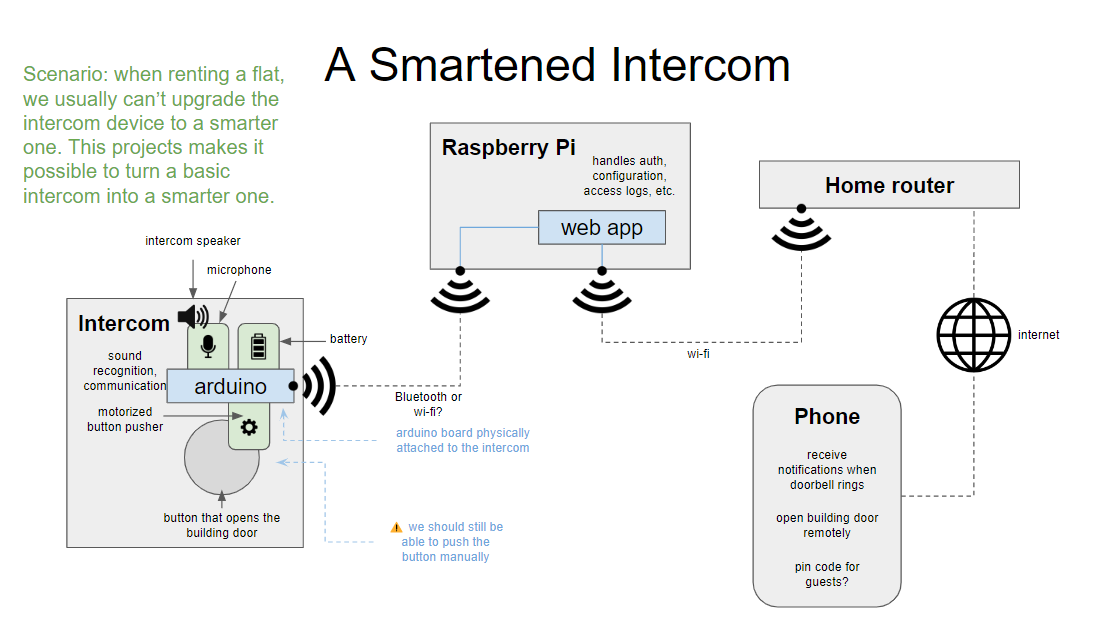
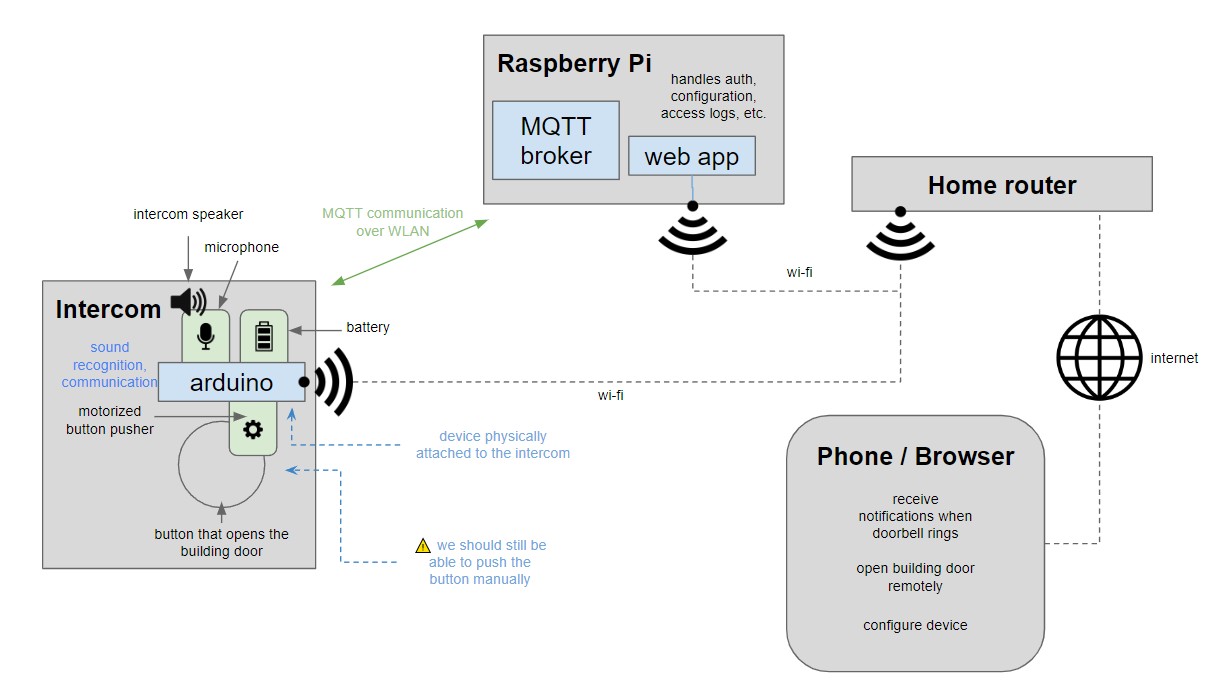
group02 - improved pi setup and overall structure

diff --git a/projects/02_smart_intercom/README.md b/projects/02_smart_intercom/README.md
@@ -1,14 +1,59 @@
 # Smart Intercom
 
+`Turn an existing intercom into a smarter one.`
+
+When renting a flat or apartment, the pre-installed intercom system is often very basic and does not support any interesting features. Our `smart intercom` is a device that can be placed on top of an existing intercom system and add smart features to it.
+
+The smart intercom device is able to detected the doorbell and will send a push notification to a registered browser application, that can also be used on a mobile phone. The user is then able to trigger the opening of the door in this application.
+
 ![](images/schema.png)
 
-## Installation on the pi
+## Intercom System - ESP32 Feather
 
-To install the smart intercom on the raspberry, first prepare the pi by following the following chapters of the [Raspberry Pi Tutorial](../../topics/02_raspPI/README.md):
+The smart intercom device itself is an `ESP32 Feather` equipped with a sound sensor, a servo motor and a battery. It is connected to a local wifi network to communicate with the server.
+
+The doorbell detection algorithm runs on this device.
+If the ringing of the doorbell is detected, a message will be sent over MQTT to the server.
+The parameters of the algorithm can be configured to match different doorbells.
+The device listens for configuration changes on specific MQTT topics.
+
+The smart intercom also listens for a command to open the door. In this case, the servo motor would be activated to press the button on the underlying intercom.
+This does not work in our prototype, since we were not able to integrate a working servo motor with the system.
+
+![](images/device.jpg)
+
+    TODO intercom setup
+
+## Server - Raspberry Pi
+
+A `Raspberry Pi`, located in the same local network as the intercom, acts as the server. It hosts the web application and its database and also the MQTT broker to communicate with the intercom.
+
+The different parts of the server are containerized. They are built and run using `docker-compose`. The following containers exist:
+
+- database
+  - A postgres database running on the local port `5432`. It is only beeing used by the api.
+- api
+  - A nodeJS application providing a REST Api for the web application using [koa.js](https://koajs.com/).
+  - Communicates with the intercom over MQTT.
+  - Sends push notifications to the web application using [Web Push](https://web.dev/notifications/).
+- nginx
+  - Serves the pre-build angular web application on ports `80` and `443`.
+  - Redirects requests to https://protofablab.ch/api to the api application.
+- certbot
+  - Is only used initially to generate the SSL certificate for the web application.
+- mqtt
+  - The MQTT broker running on port `1883`.
+  - Used by intercom and api application.
+
+### Installation
+
+To install the smart intercom on the raspberry, first prepare the pi by following these chapters of the [Raspberry Pi Tutorial](../../topics/02_raspPI/README.md):
 
 - Write Image to SD-Card
 - Connect to your raspberry pi
 - Port forwarding
 - DNS setup
 
-After that, follow the steps in [pi-setup.md](./pi-setup.md).
+After that, follow [these steps](./PI_SETUP.md).
+
+## Using the smart intercom

diff --git a/projects/02_smart_intercom/PI_SETUP.md b/projects/02_smart_intercom/PI_SETUP.md
@@ -1,0 +1,103 @@
+# Raspberry Pi Setup
+
+This tutorial describes how to deploy the project to the raspberry pi and make the web application available on `https://protofablab.ch`.
+
+The following steps have to be exectuted in order. Some of them might take a while.
+
+## Build and deploy on a different domain
+
+To deploy the application on a different domain, some configuration files have to be changed and the UI application has to be rebuilt. Since the build of the UI application is very slow on the Pi, this should be done on a PC.
+
+Replace any occurrence of `protofablab.ch` in the following files:
+
+- docker-compose.yml
+- nginx.conf
+- smart-intercom-ui/src/environment/environment.prod.ts
+
+Then build the ui application:
+
+```sh
+cd smart-intercom-ui
+
+# build the ui application to the output folder smart-intercom-ui/ui-dist
+npm run build
+```
+
+Push these changes to a dedicated git branch.
+
+## Install Docker
+
+To install docker, we use the [Linux Media Delivery System (LMDS)](https://github.com/GreenFrogSB/LMDS).
+
+```sh
+sudo apt-get update && sudo apt-get upgrade
+
+# install git
+sudo apt install git
+
+# install docker and docker-compose using LMDS
+git clone https://github.com/GreenFrogSB/LMDS.git ~/LMDS
+
+cd ~/LMDS
+
+./deploy.sh
+
+# select first option
+"Install Docker & Docker-compose"
+
+# reboot the pi after
+
+# reconnect to the pi
+
+sudo systemctl enable docker
+```
+
+## Check out project code
+
+By using [sparse checkout](https://git-scm.com/docs/git-sparse-checkout), we only get the files from the relevant project folder.
+
+```sh
+mkdir protofablab
+
+cd protofablab
+
+git init
+
+git remote add -f origin https://github.com/nembrinj/protofablab
+
+# only check out relevant folder
+git config core.sparseCheckout true
+
+echo "projects/02_smart_intercom" >> .git/info/sparse-checkout
+
+# check out your dedicated git branch instead of main, if you want to deploy to a different domain.
+git pull origin main
+```
+
+## Build containers and generate SSL certificate
+
+The certbot command will access `protofablab.ch` on port 80 (http). Make sure that the DNS and port-forwarding are configured.
+
+```sh
+cd projects/02_smart_intercom/
+
+# delete or comment out ngingx.conf server config for port 443
+nano nginx.conf
+
+docker-compose build
+
+docker-compose up -d
+
+# generate ssl certificate (change domain if needed)
+docker-compose run --rm  certbot certonly --webroot --webroot-path /var/www/certbot/ -d protofablab.ch
+
+# restore https config
+git restore nginx.conf
+
+# restart changed containers
+docker-compose build && docker-compose up -d
+```
+
+## We are done
+
+If everything worked perfectly, the web application should now be available from the internet on https://protofablab.ch (or your own domain) and the MQTT broker should be running on port 1883 of the Raspberry Pi in the local network.

diff --git a/projects/02_smart_intercom/smart-intercom-ui/README.md b/projects/02_smart_intercom/smart-intercom-ui/README.md
@@ -1,5 +1,7 @@
 # SmartIntercomUi
 
+## Local development
+
 Run `ng serve` for a dev server. Navigate to `http://localhost:4200/`. The app will automatically reload if you change any of the source files.
 
 ## Push Registration
